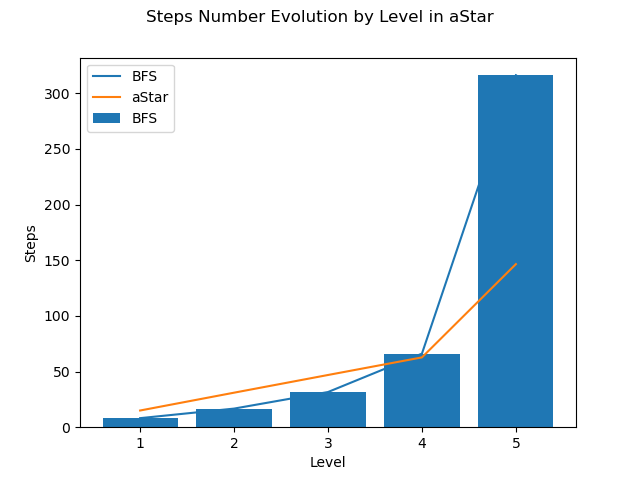
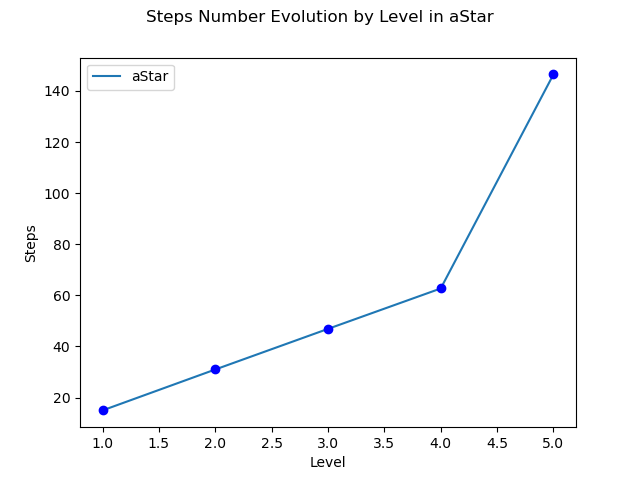
fixed bugs in plots

diff --git a/data_analysis.py b/data_analysis.py
@@ -82,15 +82,19 @@ def plot_bar(names, values, label, xlabel, ylabel,suptitle,file_name):
     plt.suptitle(suptitle)
     plt.savefig(f'plots/{file_name}.png')
     ##plt.show()
+    plt.clf()
+
 
 def plot_line(names, values, label, xlabel, ylabel,suptitle,file_name):
     plt.ylabel(ylabel)
     plt.xlabel(xlabel)
     plt.plot(names, values, label = label)
+    plt.plot(names, values,'bo')
     plt.legend()
     plt.suptitle(suptitle)
     plt.savefig(f'plots/{file_name}.png')
     ##plt.show()
+    plt.clf()
 
 
 def plot_steps():
@@ -103,11 +107,11 @@ def plot_steps():
         values_median_steps_bfs.append(test.all_results_bfs[i].median_steps)
     for i in range (5):
         values_median_steps_aStar.append(test.all_results_aStar[i].median_steps)
- 
     plot_line(names,values_median_steps_bfs,'BFS','Level','Steps','Steps Number Evolution by Level in BFS','bfs_steps_line')
     plot_bar(names,values_median_steps_bfs,'BFS','Level','Steps','Steps Number Evolution by Level in BFS','bfs_steps_bar')
     plot_line(names,values_median_steps_aStar,'aStar','Level','Steps','Steps Number Evolution by Level in aStar','aStar_steps_line')
     plot_bar(names,values_median_steps_aStar,'aStar','Level','Steps','Steps Number Evolution by Level in aStar','aStar_steps_bar')
+
 
 def plot_time():
     test = AnalysisResultsAll(5)
@@ -119,11 +123,11 @@ def plot_time():
         values_median_time_bfs.append(test.all_results_bfs[i].median_execution_time)
     for i in range (5):
         values_median_time_aStar.append(test.all_results_aStar[i].median_execution_time)
-
     plot_line(names,values_median_time_bfs,'BFS','Level','Time (s)','Median Time evolution in BFS','bfs_time_line')
     plot_bar(names,values_median_time_bfs,'BFS','Level','Time (s)','Median Time evolution in BFS','bfs_time_bar')
     plot_line(names,values_median_time_aStar,'aStar','Level','Time (s)','Median Time evolution in aStar','aStar_time_line')
     plot_bar(names,values_median_time_aStar,'aStar','Level','Time (s)','Median Time evolution in aStar','aStar_time_bar')
+
 
 def plot_steps_group():
     test = AnalysisResultsAll(5)
@@ -139,10 +143,14 @@ def plot_steps_group():
     plt.plot(names,values_median_steps_bfs,'bo')
     plt.plot(names,values_median_steps_aStar,label='aStar')
     plt.plot(names,values_median_steps_aStar,'bo')
+    plt.ylabel('Steps Number')
+    plt.xlabel('Difficulty Level')
     plt.title("Median Steps Evolution by Level")
     plt.legend()
     plt.savefig('plots/group_steps_line.png')
     ###plt.show()
+    plt.clf()
+
 
     x = np.arange(len(names))  # the label locations
     width = 0.35  # the width of the bars
@@ -168,6 +176,8 @@ def plot_steps_group():
     fig.tight_layout()
     plt.savefig('plots/group_steps_bar.png')
     ###plt.show()
+    plt.clf()
+
 
 def plot_time_group():
     test = AnalysisResultsAll(5)
@@ -183,17 +193,21 @@ def plot_time_group():
     plt.plot(names,values_median_time_bfs,'bo')
     plt.plot(names,values_median_time_aStar,label='aStar')
     plt.plot(names,values_median_time_aStar,'bo')
+    plt.ylabel('Execution Time (s)')
+    plt.xlabel('Difficulty Level')
     plt.title("Median Time Evolution by Level")
     plt.legend()
     plt.savefig('plots/group_time_line.png')
     ###plt.show()
+    plt.clf()
+
 
     x = np.arange(len(names))  # the label locations
     width = 0.35  # the width of the bars
     fig, ax = plt.subplots()
     rects1 = ax.bar(x - width/2, values_median_time_bfs, width, label='BFS')
     rects2 = ax.bar(x + width/2, values_median_time_aStar, width, label='aStar')
-    ax.set_ylabel('Execution Time')
+    ax.set_ylabel('Execution Time (s)')
     ax.set_xlabel('Difficulty Level')
     ax.legend()
     
@@ -212,6 +226,8 @@ def plot_time_group():
     fig.tight_layout()
     plt.savefig('plots/group_time_bar.png')
     ###plt.show()
+    plt.clf()
+
 
 def main():
     plot_steps()

diff --git a/tests.py b/tests.py
@@ -91,7 +91,7 @@ def solve_inputs():
 #Função principal da aplicação.
 def main():
     #generate_inputs()
-    solve_inputs()
+    #solve_inputs()
 
 if __name__ == "__main__":
     main()

diff --git a/README.md b/README.md
@@ -7,13 +7,17 @@ This working is part of Unisinos 's Computer Science postgraduate program. Here 
 
 - [User Instructions](#User-Instructions)
 - [Performance Analysis and Comparison](#Performance-Analysis-and-Comparison)
+
+- [Performance Analysis and Comparison](#Performance-Analysis-and-Comparison)
+- [Performance Analysis and Comparison](#Performance-Analysis-and-Comparison)
+- [Performance Analysis and Comparison](#Performance-Analysis-and-Comparison)
+
 - [Prerequisites](#Prerequisites)
 - [Authors](#authors)
 
 
  ## User Instructions
  ### Basic Utilization
- #### Input Board to Solve
 
  First insert the board to solve in the file [input.txt](input.txt) in format like this:
 
@@ -33,11 +37,14 @@ Before insert confirm if this is a valid sudoku board.
 
 Second step is to run the [main.py](main.py) and select the algorithm to solve the board. Chose one of four options, 1 resolve using BFS, 2 resolve using aStar, 3 resolve using both and 4 exit of program.
 
- ###  Performance Analysis and Comparison
-In this section will evaluate the performance of our proposals algorithms to solve sudoku. The implementation code is available in this [repository](https://github.com/zanattabruno/sudoku-python).
-Basically will discuss about performance the two algorithms proposals implemented in this code, the algorithms BFS and aStar.
+ ### Advanced Utilization
 
- #### Test Solving Algorithms
+To regenerate tests and new analysis just run the [tests].
+
+ ##  Performance Analysis and Comparison
+In this section will evaluate the performance of our proposals algorithms to solve sudoku codified here. Basically will discuss about performance the two algorithms proposals implemented in this code, the algorithms BFS and aStar.
+
+ ### Load for Test Solving Algorithms
 
 For testing performance of both algorithms we use [py-sudoku project](https://pypi.org/project/py-sudoku/). We imported this project to our code, in [sudoku.py](generator/sudoku.py,) to edit print method with objective to facilitate the conversion of sudoku board to array. With this package we implement our code to generate five files each containing 100 randomly generated frames, first one file with 10% of blanc spaces, next one with 20% up until 50 % the blanc spaces (more complexity).
 Observation: with complexity bigger than 50% of blanc spaces  our implementation of aStar algorithm entry in loop.
@@ -45,14 +52,18 @@ Observation: with complexity bigger than 50% of blanc spaces  our implementation
 For generate the tests boards and calculate yours outputs run [tests.py](tests.py). When run generated boards will be allocated in path [inputs](tests/inputs/). The results of the tests will be allocated in
 path [results](tests/results/). The results are composed by number of steps and time for resolution for each algorithm.
 
- #### Analysis of algorithms
-
- This page will evaluate the performance of our proposals algorithms to solve sudoku. The implementation code is available in this [repository](https://github.com/zanattabruno/sudoku-python).
-Basically will discuss about performance the two algorithms proposals implemented in this code, the algorithms BFS and aStar.
+ ### Analysis of algorithms
 
 To execute analysis of both algorithms run [data_analysis.py](data_analysis.py), he's calculate the median steps and time to solve boards for each difficult level (10% until 50% of blanc spaces in boards), the output of these calculations are in [tests](tests/) folder, one to aStar e one to BFS.
 First row is to difficult level min, in other words 10 % of blanc spaces, second row to 20% and so on, until 50 %. First data in each row are median execution time for this difficulty level, second median steps, third  max number of steps, fourth min number of steps, fifth max execution time and sixth min execution time.
 After all calculations are plotted several pictures to provide a best analysis of the algorithms performance.
+
+ ### Performance Metrics
+
+Two main metrics were chosen to analyze the performance of both algorithms. The first is the execution time and the second is the number of steps, or in the case of our implementation, the number of nodes in the tree is expanded. The execution time will vary depending on the processing capacity of the machine on which the code will be executed, but the number of steps will be the same regardless of the processing power. This is because the logic is the same regardless of the machine that will run the code, simply the fastest machine will perform the necessary steps more quickly. Logically, for this analysis, all codes were executed on the same machine under the same conditions for a fair comparison.
+
+
+
 
 ## Prerequisites
   * Python 3
